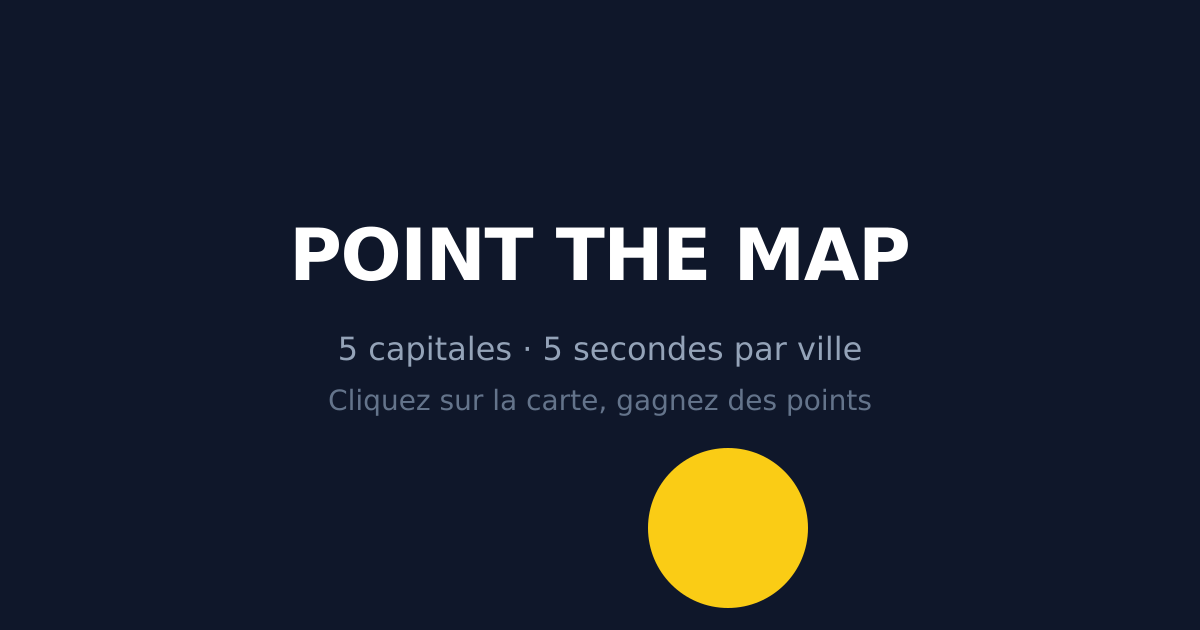
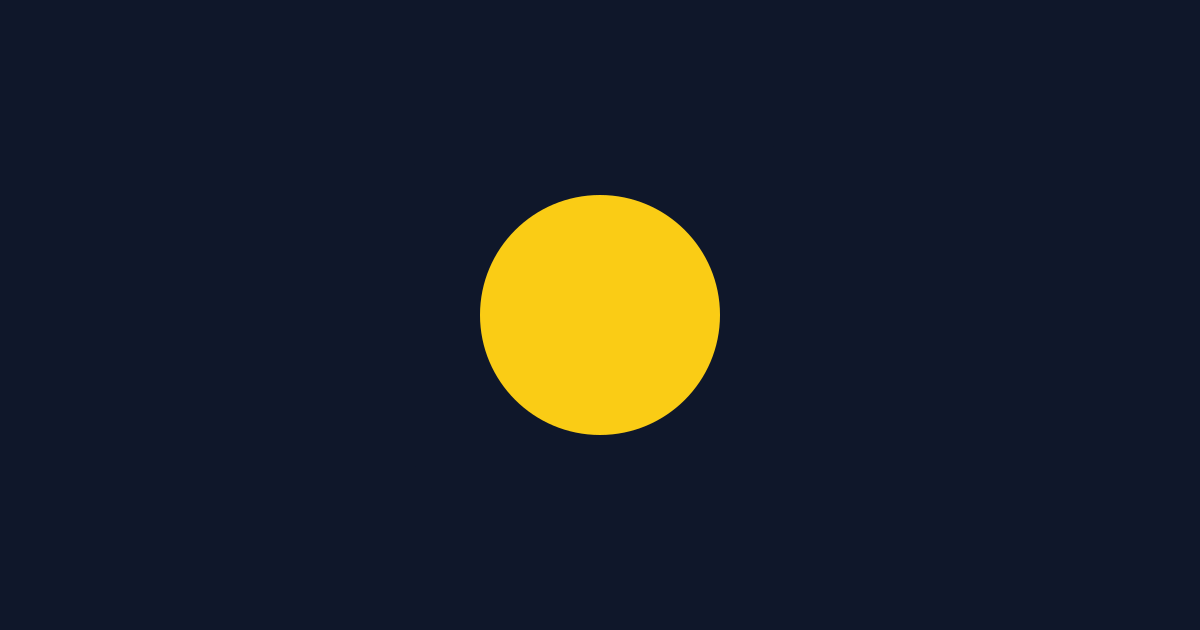
Remove unused Open Graph image files and update the image generation script to create a single default image. Simplify meta tags in index.html by removing unnecessary IDs and language detection script.

Changed region(s): [[0.2467, 0.3016, 0.7708, 0.6937], [0.5242, 0.6937, 0.6783, 0.9651]]

diff --git a/index.html b/index.html
@@ -10,7 +10,7 @@
   <meta property="og:type" content="website">
   <meta property="og:title" content="Point The Map">
   <meta property="og:description" content="5 capitales · 5 secondes par ville. Cliquez sur la carte, gagnez des points !">
-  <meta property="og:image" content="/og-image.png" id="og-image">
+  <meta property="og:image" content="/og-image.png">
   <meta property="og:image:width" content="1200">
   <meta property="og:image:height" content="630">
 
@@ -18,21 +18,7 @@
   <meta name="twitter:card" content="summary_large_image">
   <meta name="twitter:title" content="Point The Map">
   <meta name="twitter:description" content="5 capitales · 5 secondes par ville. Cliquez sur la carte, gagnez des points !">
-  <meta name="twitter:image" content="/og-image.png" id="twitter-image">
-  
-  <script>
-    // Détecter la langue du navigateur et mettre à jour l'image OG
-    (function() {
-      const lang = navigator.language?.startsWith('fr') ? 'fr' : 'en';
-      const ogImage = document.getElementById('og-image');
-      const twitterImage = document.getElementById('twitter-image');
-      if (ogImage && twitterImage) {
-        const imagePath = `/og-image-${lang}.png`;
-        ogImage.setAttribute('content', imagePath);
-        twitterImage.setAttribute('content', imagePath);
-      }
-    })();
-  </script>
+  <meta name="twitter:image" content="/og-image.png">
 
   <!-- Leaflet -->
   <link rel="stylesheet" href="https://unpkg.com/leaflet@1.9.4/dist/leaflet.css"/>

diff --git a/scripts/generate-og-image.js b/scripts/generate-og-image.js
@@ -1,4 +1,4 @@
-// Script pour générer og-image.png (FR et EN) à partir des templates SVG
+// Script pour générer og-image.png à partir de la favicon
 // Usage: node scripts/generate-og-image.js
 
 import { readFileSync, writeFileSync } from 'fs';
@@ -21,30 +21,15 @@ const generatePNG = async (svgPath, outputPath) => {
   writeFileSync(outputPath, pngBuffer);
 };
 
-// Générer les deux versions (FR et EN)
+// Générer l'image de partage
 const publicDir = join(rootDir, 'public');
 
 try {
-  // Version française
   await generatePNG(
-    join(publicDir, 'og-image-fr.svg'),
-    join(publicDir, 'og-image-fr.png')
-  );
-  console.log('✅ og-image-fr.png créé');
-
-  // Version anglaise
-  await generatePNG(
-    join(publicDir, 'og-image-en.svg'),
-    join(publicDir, 'og-image-en.png')
-  );
-  console.log('✅ og-image-en.png créé');
-
-  // Version par défaut (FR)
-  await generatePNG(
-    join(publicDir, 'og-image-fr.svg'),
+    join(publicDir, 'og-image.svg'),
     join(publicDir, 'og-image.png')
   );
-  console.log('✅ og-image.png créé (version FR par défaut)');
+  console.log('✅ og-image.png créé');
 } catch (error) {
   console.error('❌ Erreur lors de la génération:', error.message);
   process.exit(1);
